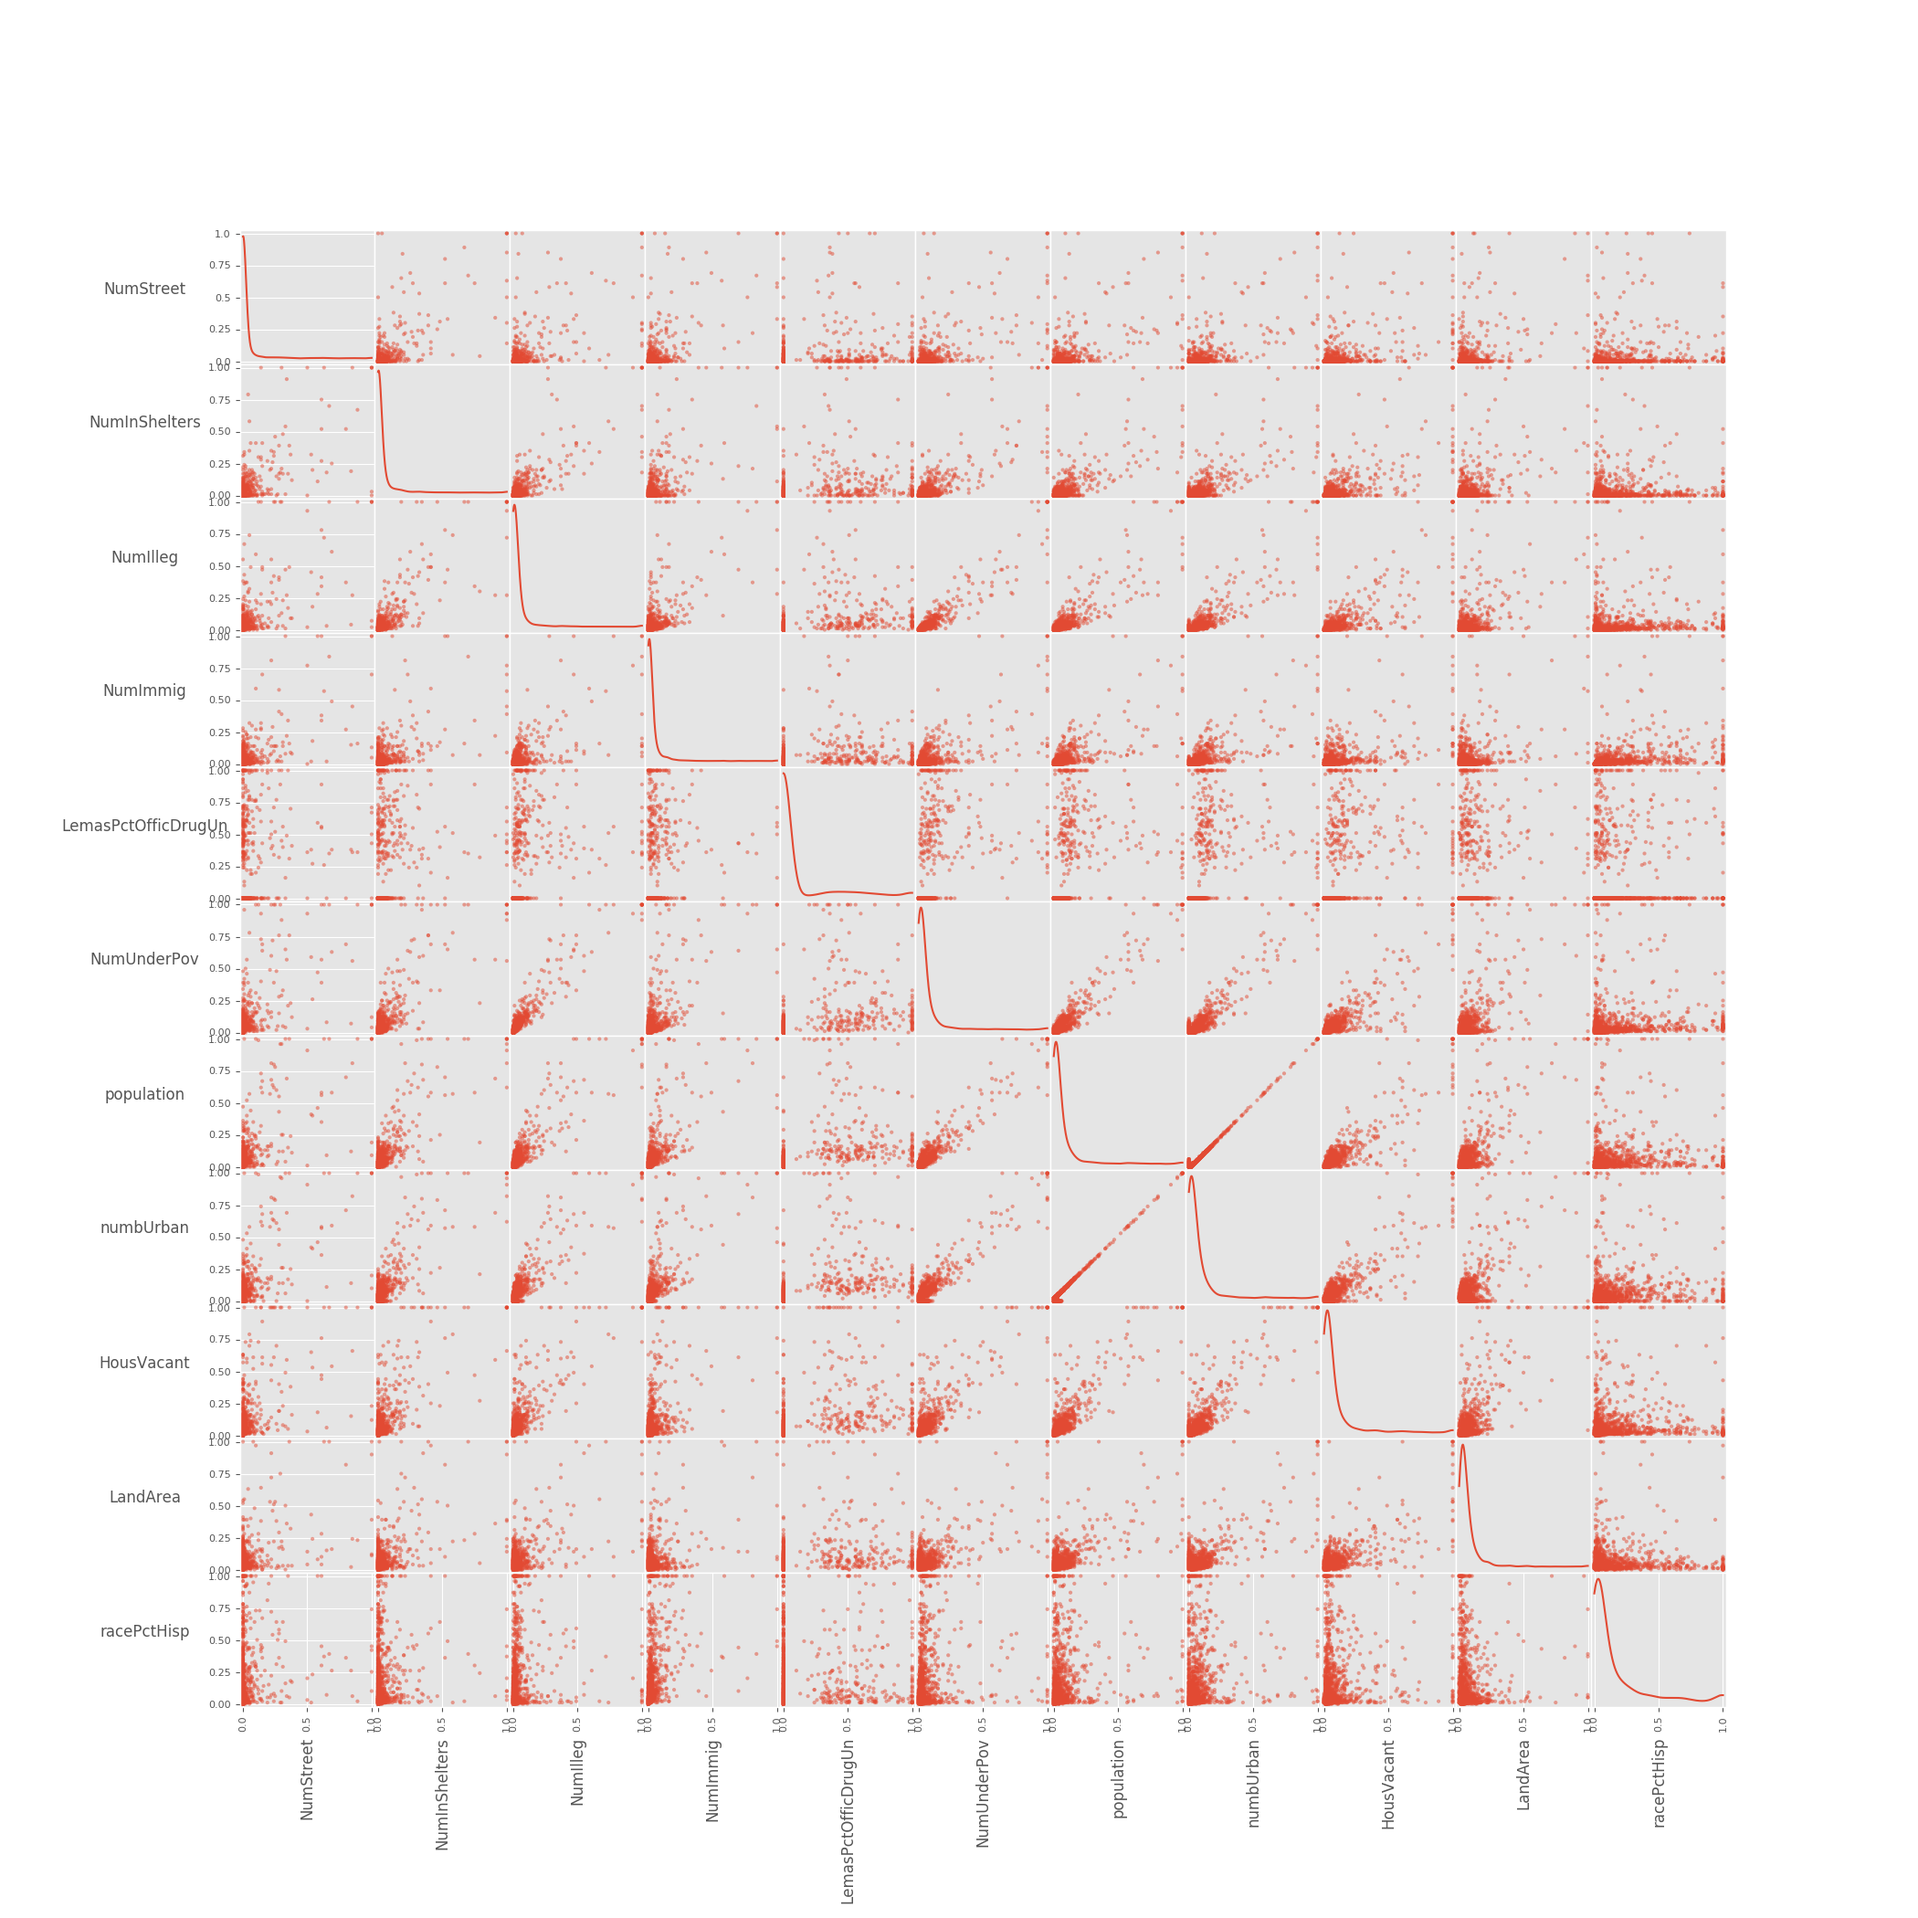
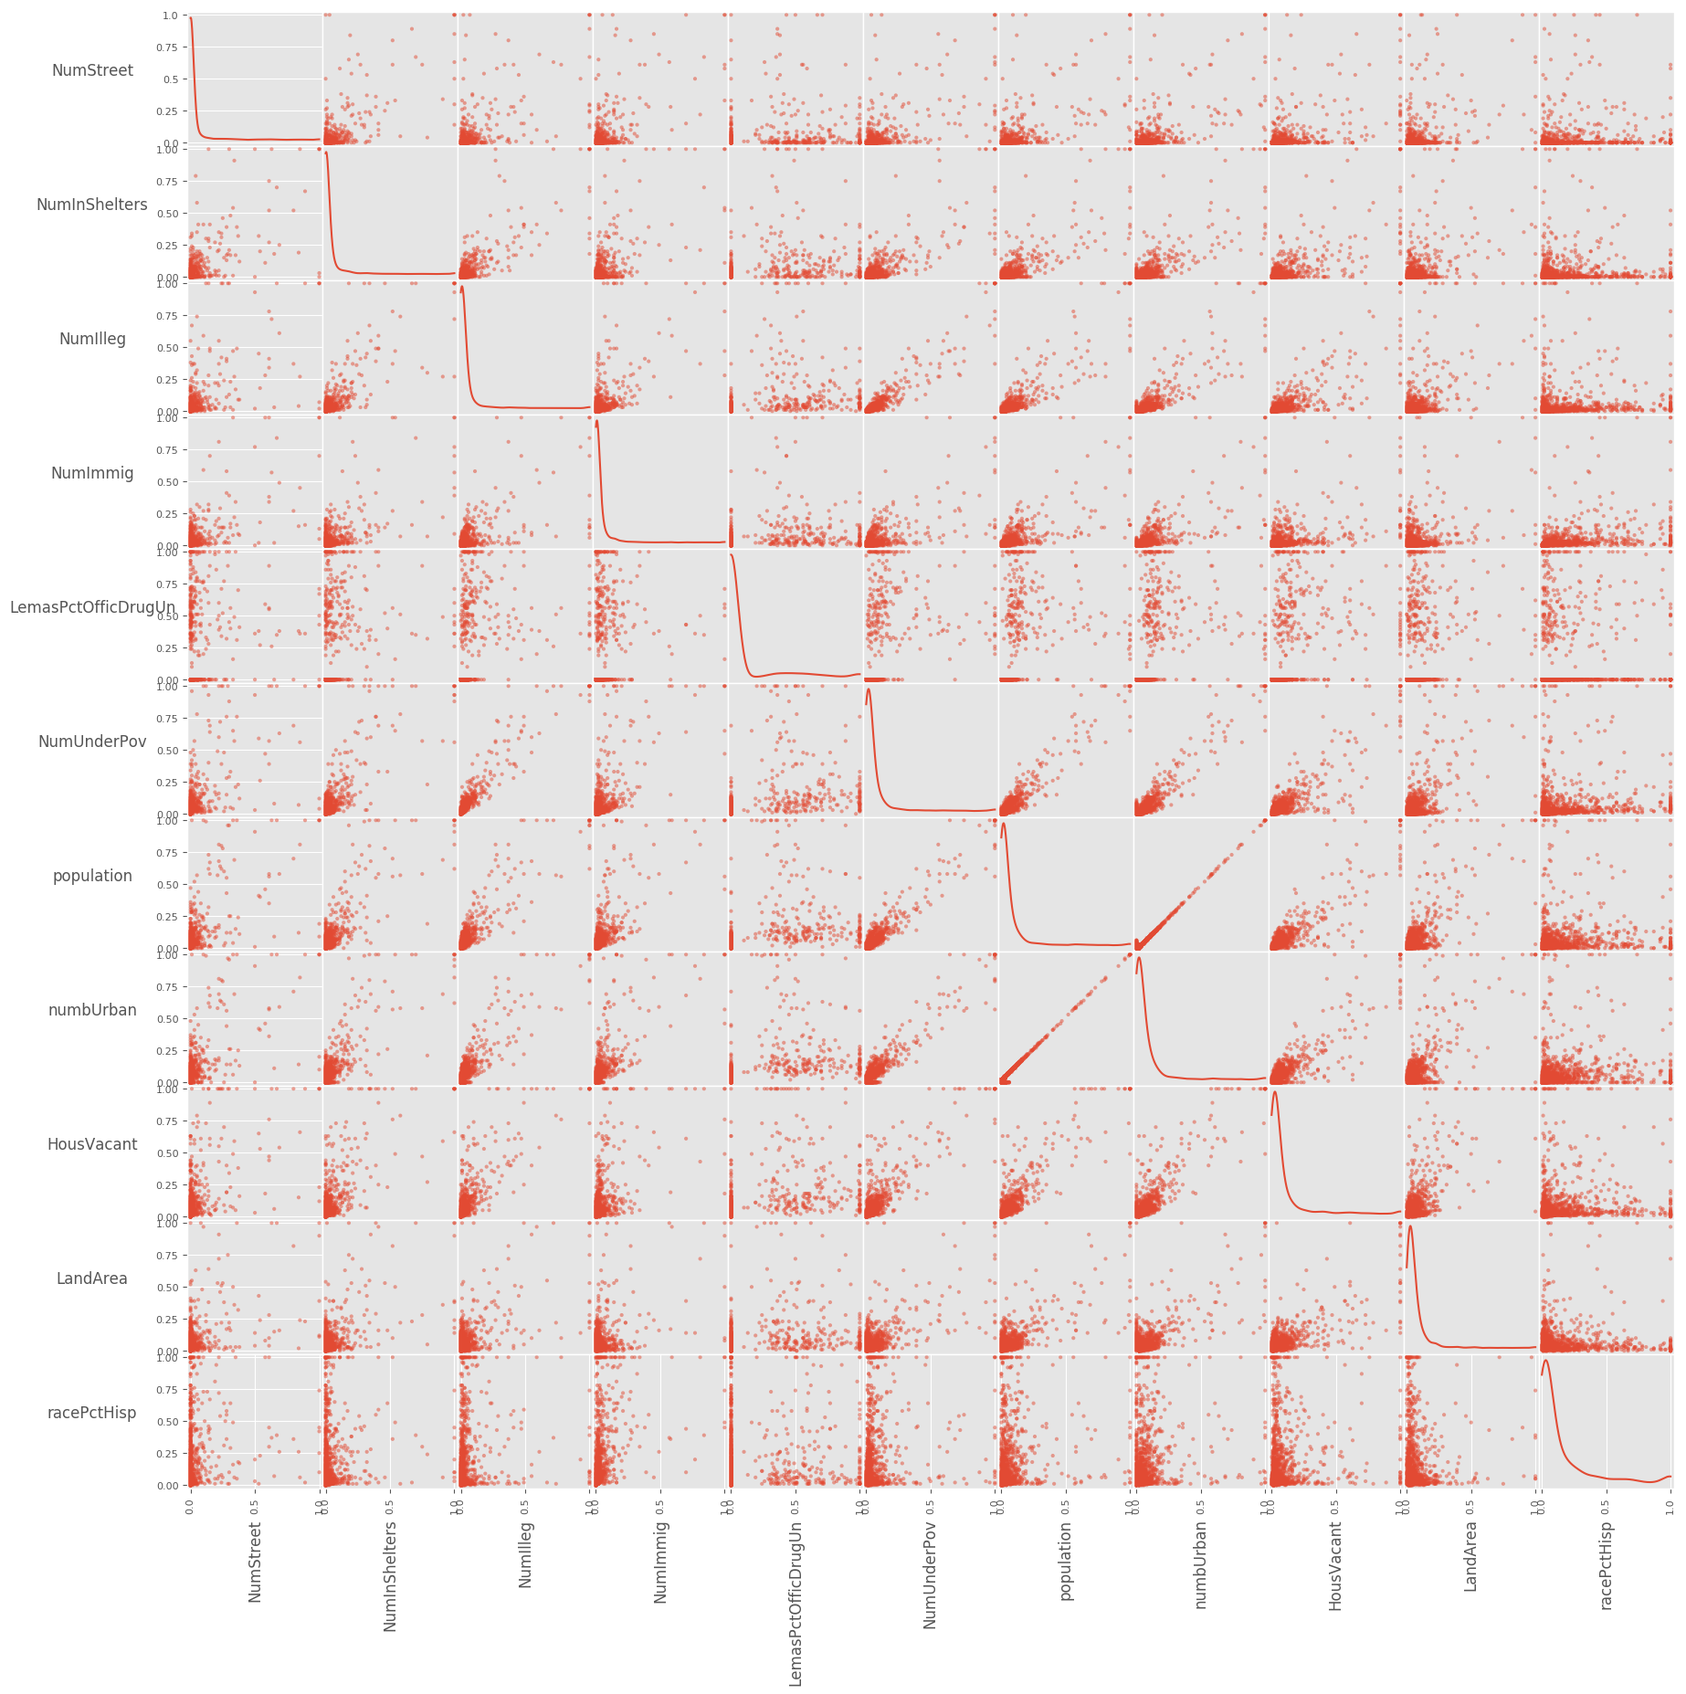
make image border compact

diff --git a/1.py b/1.py
@@ -75,7 +75,7 @@ def e_plots():
     fig = plt.figure(figsize=(20, 10))
     box_plot_data = train_data[top_cvs.index]
     plt.boxplot(box_plot_data.as_matrix(), labels=top_cvs.index.values)
-    plt.savefig("./plots/1_e_boxplot.png")
+    plt.savefig("./plots/1_e_boxplot.png", bbox_inches='tight')
     plt.close()
 
     fig = plt.figure(figsize=(15, 20))
@@ -85,7 +85,7 @@ def e_plots():
         X = train_data[key]
         scatterplot(X,Y, key, response_var)
         i += 1
-    plt.savefig("./plots/1_e_scatter_plots_response.png")
+    plt.savefig("./plots/1_e_scatter_plots_response.png", bbox_inches='tight')
     plt.close()
 
     axs = scatter_matrix(box_plot_data, figsize=(21, 21), diagonal='kde')
@@ -101,7 +101,7 @@ def e_plots():
             # to make sure y axis names are outside the plot area
             ax.yaxis.labelpad = 50
 
-    plt.savefig("./plots/1_e_scatter_plots.png")
+    plt.savefig("./plots/1_e_scatter_plots.png", bbox_inches='tight')
     plt.close()
 #=======================================================================================================================
 def f_linear_regression():
